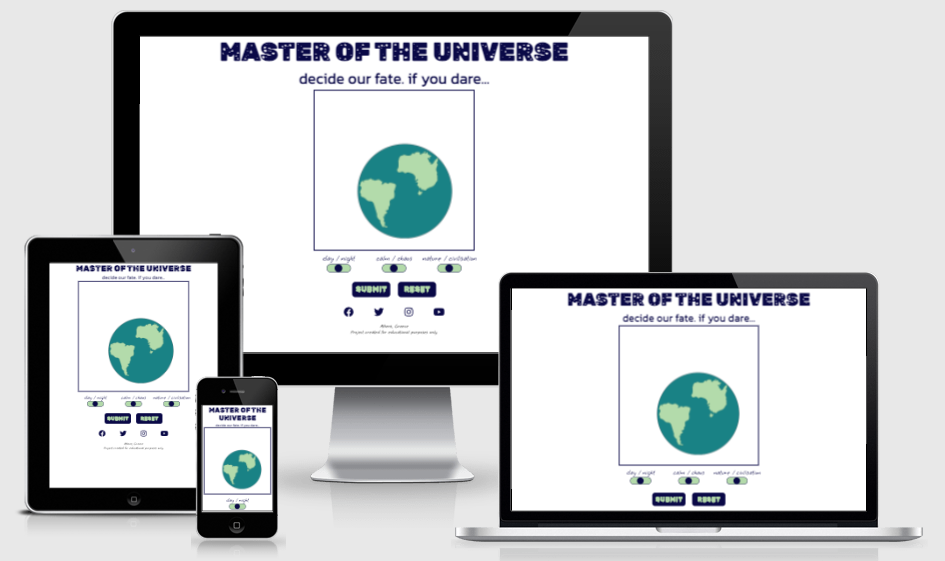
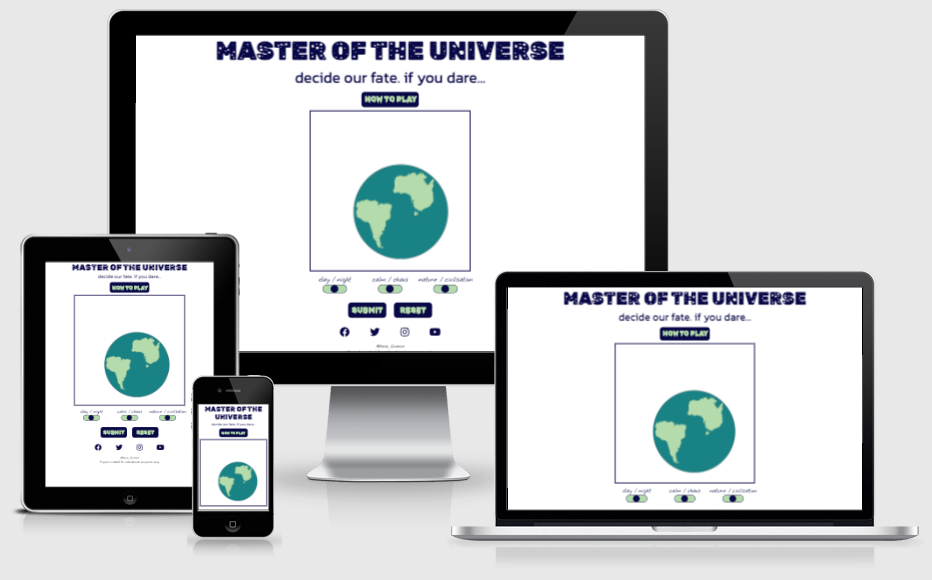
ReadMe updated. Finaly commit pending review.

Changed region(s): [[0.0, 0.0, 0.9957, 1.0]]

diff --git a/assets/css/style.css b/assets/css/style.css
@@ -41,8 +41,8 @@ h3, p{
 
 /* Instructions Panel */
 #instructions-panel{
-    width:500px;
-    height:500px;
+    width:600px;
+    height:600px;
     border: 3px solid rgb(7, 7, 74);
     margin:0 auto;
     text-align:center;

diff --git a/README.md b/README.md
@@ -42,7 +42,7 @@ To engage the users interests with vibrant design & fun images, and to keep them
 Anyone & everyone with time to spare. The ideal user age is between 15-30 years of age.
 
 ### Communication:
-With bold text & clearly defined buttons, the instructions of the game become clear upon visiting the site.
+With bold text & clearly defined buttons, the instructions of the game become clear upon visiting the site. However for those who need a little more guidance, an instructions window has also been added, to load upon request.
 
 ### Current User Goals:
 To keep the user interested & engaged, trying again & again to get the correct combination of switches. With three switches, & three positions for each switch, the number of possible combinations is 27. 
@@ -71,49 +71,64 @@ All fonts were obtained from the Google Fonts librabry. I chose the following th
 4. Rubik Wet Paint - To give an eirie feel to the submit & reset buttons.
 
 ### Imagery:
+All images used were created by me, and styled to give it the feel of an interactive colouring book.
 
 ## Features
 
 ### Existing Features:
 
 #### Landing Page:
-![Landing Page]()
+![Landing Page](assets/images/images-readme/landing-page.png)
 
 #### Page Title:
-![Page Heading & Tagline]()
+![Page Heading & Tagline](assets/images/images-readme/header.png)
 
-#### Interactive image & toggle buttons:
-![Game screen & toggle switches]()
+#### Instructions Panel:
+![How to play button](assets/images/images-readme/instructions-button.png)
+![Instructions panel](assets/images/images-readme/instructions-panel.png)
+
+#### Game Area:
+![Game screen & toggle switches](assets/images/images-readme/game-area.png)
 
 #### Win Screen:
-![Win Screen]()
+![Win Screen](assets/images/images-readme/win-screen.png)
 
 #### Lose Screen:
-![Lose Screen]()
-
-#### Submit & Reset Buttons:
-![Submit & Reset buttons]()
+![Lose Screen](assets/images/images-readme/lose-screen.png)
 
 #### Social Links:
-![Social Links]()
+![Social Links](assets/images/images-readme/footer.png)
 
 
 ### Features Left to Implement
 
 ## Testing
-- The default page image, along with the favicon were loading in the gitpod preview of the site, however would not load through the link generated in github. A friend suggested that the error lay with my file paths starting with a "/", and that my image name also contained a space. Once the space & the starting "/" were removed, the issue was resolved. Thank you [Mats](https://github.com/Pelikantapeten).
-- I struggled to understand how to add an event listener that would also indicate which radio button was toggled. After several hours of trying to understand what I was doing wrong, I contacted C.I. tutor support, and Ger was king enough to show me I had a an errant capital letter in my JS file.
-- Once the functions for all the overlays was in place, it became clear that the third set of toggles caused the image to move places on the screen if the second set of overlays was toggled back & forth. Issue appears to be because the function is creating a new img element each time the button is clicked & appending it to the DOM, causing the relative positioning of the third function to adjust its positioning in comparison. After much trial & error, and the help of Mats, I was able to understand that whilst I was correctly clearing out my div elements, I was placing my code in the wrong order, and clearing out my newly created img elements as well. Repositioning my code resolved the issue.
-- An event listerner for keypress has been added to the submit button. This only appears to function after the submit button has been clicked on once. Prior to that, hitting the 'enter' key produces no results. Ger from tutor support tested the code & confirmed that the event listener works on page load, and had other colleagues also test it. As I cannot replicate their results on Chrome, even after clearing cache/cookies & doing a hard reset, I will take their word for it.
-- The "lose message" only appears once when the submit button is clicked. After that, it does nothing. Discovered that it was the same issue I had experienced earlier, whereby the creation of the new elements in the JS file when clicked, causes the message to shift positioning. To resolve this, I created the img elements in the html file, and loaded them with the default images for the neutral position of each toggle. This ensured that any positioning created in CSS, will no longer be affected by the creation/deletion of new elements. And resoloved the issue. Now, the 'lose screen' loads in the correct place every time.
+The default page image, along with the favicon were loading in the gitpod preview of the site, however would not load through the link generated in github. A friend suggested that the error lay with my file paths starting with a "/", and that my image name also contained a space. Once the space & the starting "/" were removed, the issue was resolved. Thank you [Mats](https://github.com/Pelikantapeten).
+
+I struggled to understand how to add an event listener that would also indicate which radio button was toggled. After several hours of trying to understand what I was doing wrong, I contacted C.I. tutor support, and Ger was king enough to show me I had a an errant capital letter in my JS file. Upon removing it, I was then able to call the radio buttons within the functions.
+
+Once the functions for all the overlays was in place, it became clear that the second set of toggles caused the image to move places on the screen if the second set of overlays was toggled back & forth. Issue appears to be because the function is creating a new img element each time the button is clicked & appending it to the DOM, causing the relative positioning of the third function to adjust its positioning in comparison. After much trial & error, and the help of Mats, I was able to understand that whilst I was correctly clearing out my div elements, I was placing my code in the wrong order, and clearing out my newly created img elements as well. Repositioning my code resolved the issue. This section of coding was eventually removed, and empty img elements were added to the DOM, as the issue was transferring to another overlay.
+
+An event listerner for keypress has been added to the submit button. This only appears to function after the submit button has been clicked on once. Prior to that, hitting the 'enter' key produces no results. Ger from tutor support tested the code & confirmed that the event listener works on page load, and had other colleagues also test it. They suggest that my pop-up blockers are the source of my frustrations. As multiple people have now tested it & confirmed it to be working, it is not a bug at all.
+
+The "lose message" only appears once when the submit button is clicked. After that, it does nothing. Discovered that it was the same issue I had experienced earlier, whereby the creation of the new elements in the JS file when clicked, causes the message to shift positioning. To resolve this, I created the img elements in the html file, and loaded them with the default images for the neutral position of each toggle. This ensured that any positioning created in CSS, will no longer be affected by the creation/deletion of new elements. Now, the 'lose screen' loads in the correct place every time.
 
 ### Validator Testing
 - html files pass through the [W3C validator](https://validator.w3.org/) with no issues found.
+
+![W3C validator message](assets/images/images-readme/validator-html.png)
+
 - CSS files pass through the [Jigsaw validator](https://jigsaw.w3.org/css-validator/) with no issues found.
+
+![Jigsaw validator message](assets/images/images-readme/validator-css.png)
+
 - JS files pass through [JSHint](https://jshint.com/) with no issues found.
+
+![JSHint overview](assets/images/images-readme/validator-js.png)
+
 - page has an excellent Accessibility rating in Lighthouse
 
-![Accessibility score]()
+![Accessibility score](assets/images/images-readme/lighthouse-score.png)
 
 - Tested the site opens in Brave, Chrome & Safari without issues.
 - All links open to external pages as intended.
@@ -146,7 +161,7 @@ The site was deployed to GitHub pages. The steps to deploy are as follows:
 ## Credits
 
 ### Content
-Support was provided by my fellow student [Mats](https://github.com/Pelikantapeten) by aiding me in bouncing off ideas & venting frustrations. They were also immeasurably helpful in explaining Media Queries in a way that I was able to grasp. They also informed me that when creating a contact form, one most also create a form-dump page.
+Support was provided by my fellow student & friend [Mats](https://github.com/Pelikantapeten) by aiding me in bouncing off ideas & venting frustrations. They also provided imesurable support when my brain was too tired to think straight, & helped me to work through my issues with a second set of eyes. I cannot thank them enough for being there for me.
 
 Code for the radio buttons came from [Codepen](https://codepen.io/timtech/pen/ezRamp).
 
